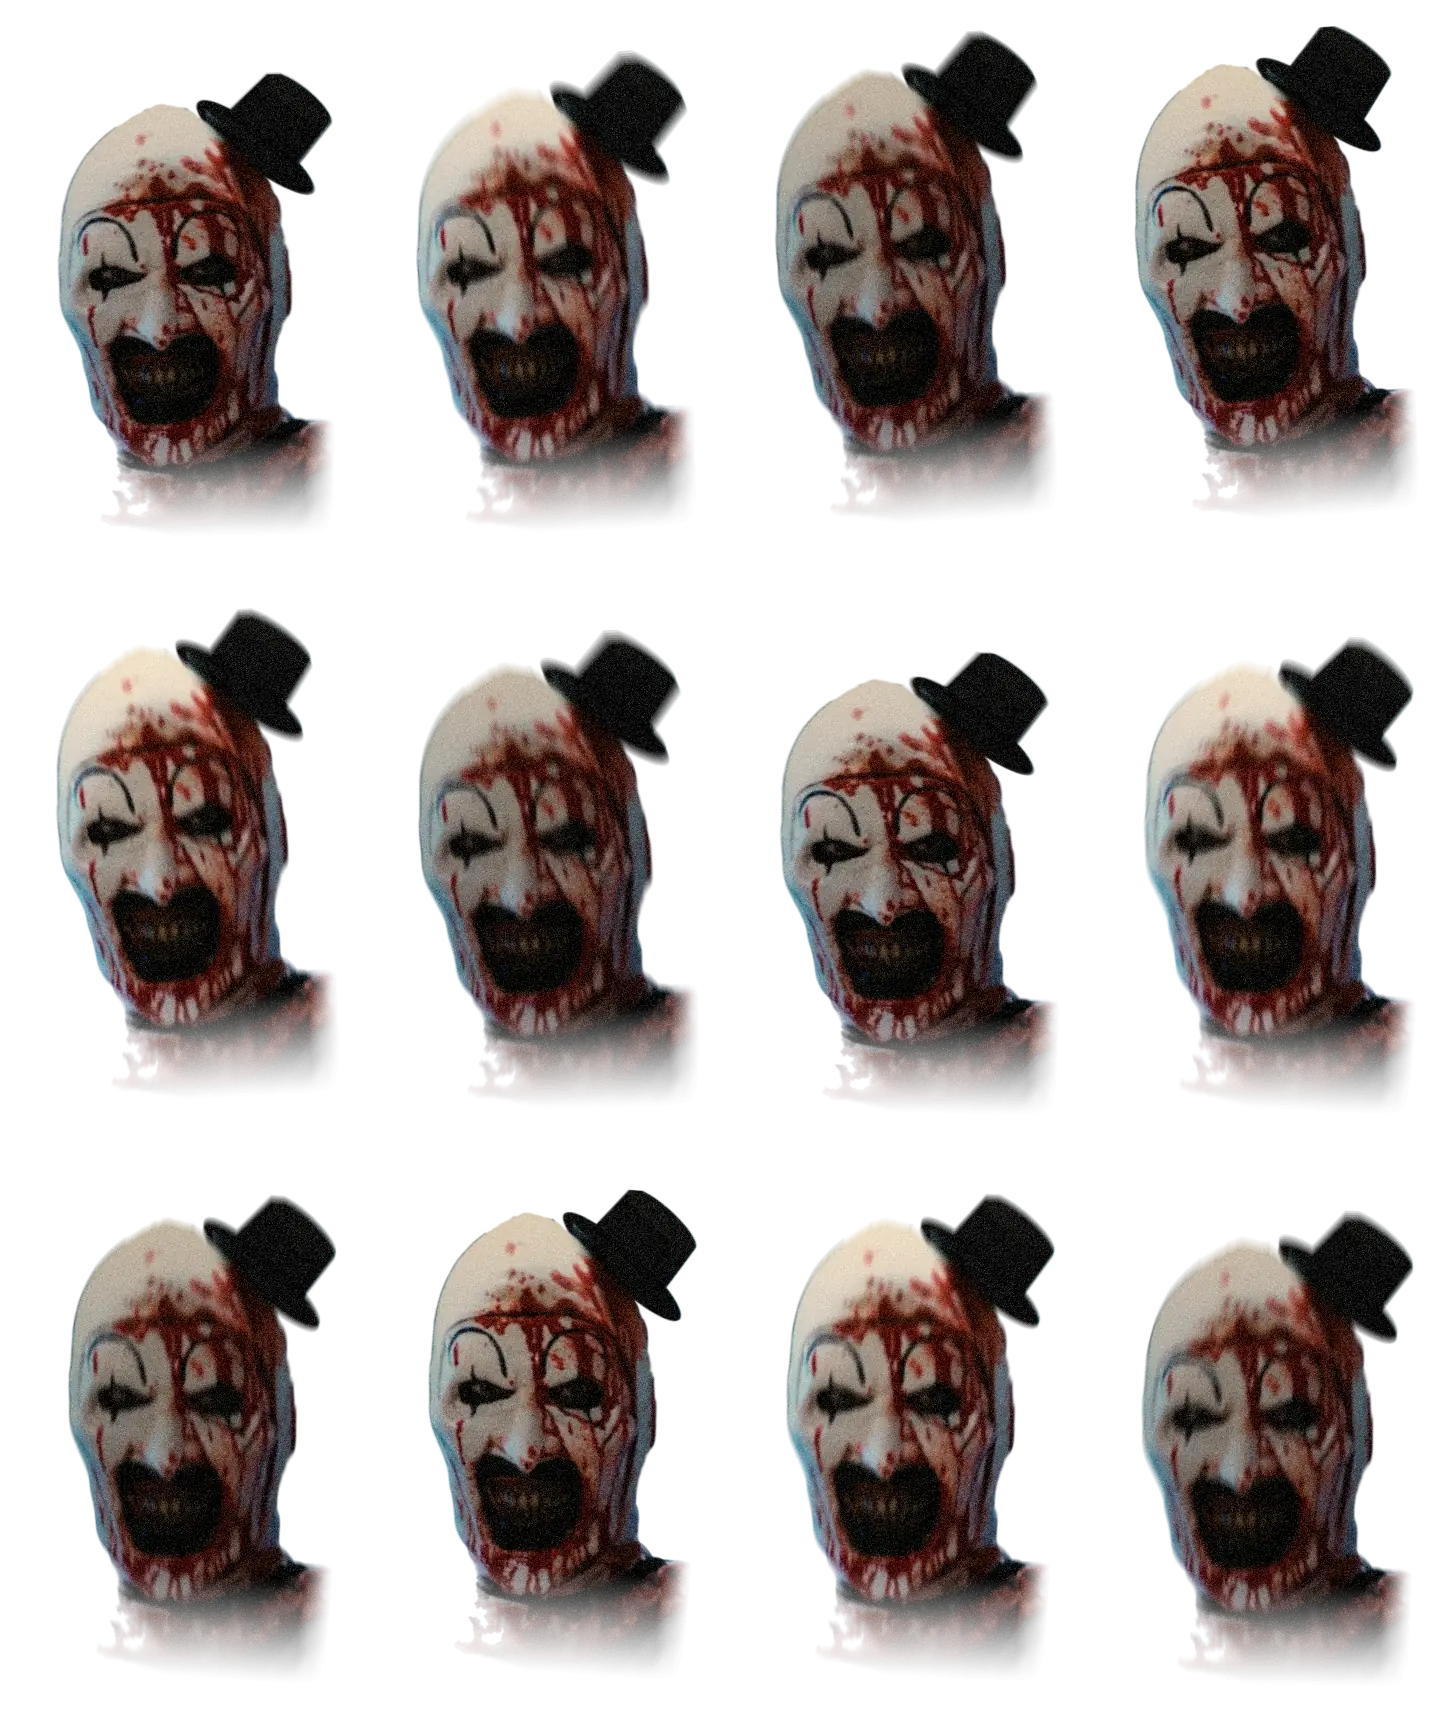
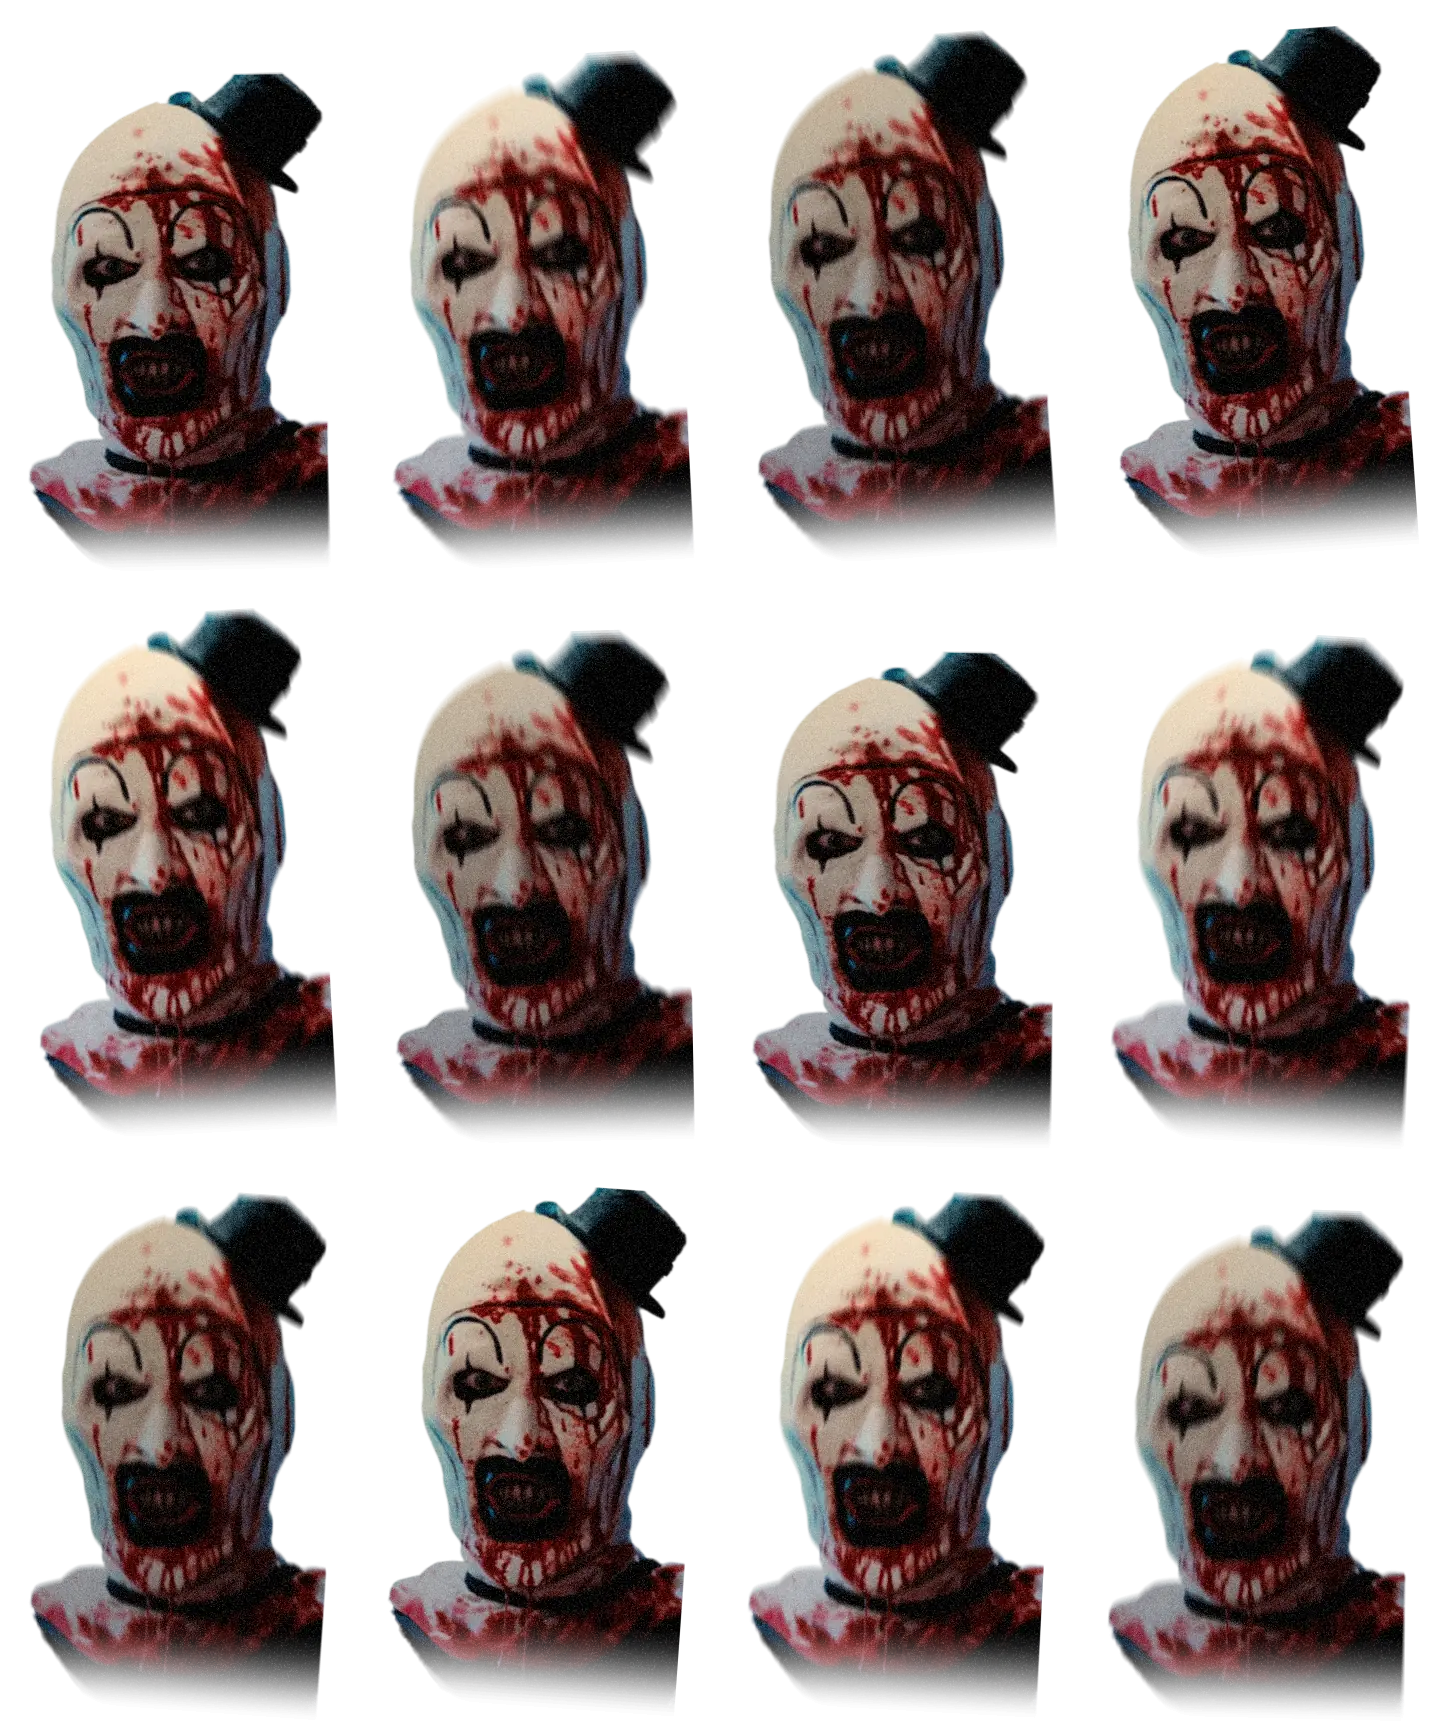
Art face redo: new art.png matted from supplied clip-C frame (real hat, real eyes, defringed, graded), run sheet rebuilt; remove painted-hat pipeline

diff --git a/scripts/make_art_face.py b/scripts/make_art_face.py
@@ -1,0 +1,51 @@
+#!/usr/bin/env python3
+"""Builds assets/art/art.png (the transparent Art overlay used by every in-room scare) from the user-supplied clip footage - no painted or synthesized parts.
+Source: one frame of /workspace/terrifier-game-supplied/clip-C.mp4 (calm eyes, real hat in frame).
+  1. matte = union of two open-source segmenters (rembg isnet-general-use for the hood/face + u2net for the dark hat, which isnet drops against the dark teal wall);
+  2. the matte is cleaned (largest blob, holes filled, 1px tighten, tiny feather);
+  3. edge colours are re-estimated (pymatting estimate_foreground_ml) so no teal wall bleeds into the outline (defringe), then resized PREMULTIPLIED (no halos);
+  4. a light grade matches the room: warm key on the lit side, cold rim kept on the other, slight desaturation + grain-friendly contrast;
+  5. the lower torso fades to transparent so no hard crop edge shows.
+  python3 scripts/make_art_face.py [frame.png]   (extract with: ffmpeg -ss 0.5 -i clip-C.mp4 -frames:v 1 frame.png)
+Needs: /workspace/venv-rembg (rembg, onnxruntime, pymatting, scipy, pillow)."""
+import sys, numpy as np
+from PIL import Image
+from scipy import ndimage as ndi
+from rembg import remove, new_session
+from pymatting import estimate_foreground_ml
+src = sys.argv[1] if len(sys.argv) > 1 else '/tmp/hr/C-02.png'
+out = sys.argv[2] if len(sys.argv) > 2 else 'assets/art/art.png'
+im = Image.open(src).convert('RGB'); W, H = im.size
+def seg(model, **kw):
+    return np.asarray(remove(im, session=new_session(model), alpha_matting=True, alpha_matting_foreground_threshold=235, alpha_matting_background_threshold=20, alpha_matting_erode_size=8, **kw))[..., 3].astype(np.float32) / 255
+a = seg('isnet-general-use')
+# the dark felt hat vanishes against the dark teal wall in a full-frame pass: re-segment just the top-right crop with u2net (hat stays) and merge
+hx0, hy1 = int(W * 0.27), int(H * 0.27)
+crop = im.crop((hx0, 0, W, hy1))
+ha = np.asarray(remove(crop, session=new_session('u2net'), alpha_matting=True, alpha_matting_foreground_threshold=200, alpha_matting_background_threshold=30, alpha_matting_erode_size=6))[..., 3].astype(np.float32) / 255
+a[0:hy1, hx0:W] = np.maximum(a[0:hy1, hx0:W], ha)
+# clean
+keep = a > 0.5
+lab, n = ndi.label(keep); sizes = ndi.sum(keep, lab, range(1, n + 1)); keep = lab == (1 + int(np.argmax(sizes)))
+keep = ndi.binary_fill_holes(ndi.binary_closing(keep, np.ones((3, 3)), iterations=4))
+a = np.where(ndi.binary_dilation(keep, iterations=5), a, 0)
+a = np.clip((ndi.grey_erosion(a, size=(3, 3)) - 0.15) / 0.7, 0, 1); a = ndi.gaussian_filter(a, 0.7)
+# defringe
+fg = estimate_foreground_ml(np.asarray(im, np.float64) / 255, a.astype(np.float64)).astype(np.float32)
+# grade: warm key from the left, cold rim stays on the right; slightly lower saturation, soft S-curve
+yy, xx = np.mgrid[0:H, 0:W]; k = np.clip(1 - xx / W, 0, 1)[..., None]
+warm = np.array([1.06, 1.0, 0.90], np.float32); cool = np.array([0.96, 1.0, 1.06], np.float32)
+fg = fg * (k * warm + (1 - k) * cool)
+g = fg.mean(-1, keepdims=True); fg = np.clip(g + (fg - g) * 0.92, 0, 1)
+fg = np.clip(fg, 0, 1); fg = fg * fg * (3 - 2 * fg) * 0.35 + fg * 0.65
+# crop to subject, fade the bottom 18% to nothing
+box = Image.fromarray((a * 255).astype(np.uint8)).point(lambda v: 255 if v > 8 else 0).getbbox(); x0, y0, x1, y1 = box
+fg = fg[y0:y1, x0:x1]; a = a[y0:y1, x0:x1]; h = a.shape[0]
+fade = np.clip((1 - (np.arange(h) / h - 0.82) / 0.18), 0, 1)[:, None]; a = a * (fade * fade * (3 - 2 * fade))
+tw = 640; th = round(h * tw / a.shape[1])
+pm = Image.fromarray((np.dstack([fg * a[..., None], a]) * 255 + .5).astype(np.uint8), 'RGBA').resize((tw, th), Image.LANCZOS)
+r = np.asarray(pm, np.float32) / 255; ra = np.clip(r[..., 3:4], 0, 1)
+res = np.dstack([np.where(ra > 1 / 255, np.clip(r[..., :3] / np.maximum(ra, 1e-4), 0, 1), 0), ra])
+Image.fromarray((res * 255 + .5).astype(np.uint8), 'RGBA').save(out + '.tmp.png')
+import subprocess; subprocess.check_call(['pngquant', '256', '--quality', '55-95', '--speed', '1', '--floyd=0.6', '--strip', '-f', '-o', out, out + '.tmp.png']); import os; os.remove(out + '.tmp.png')
+print('wrote', out, tw, th)

diff --git a/README.md b/README.md
@@ -79,7 +79,7 @@ Missing keys fall back to `js/config.js`. Unknown keys are ignored. `version` is
 
 ### Assets
 - `assets/rooms/*.jpg`: procedural equirect room plates (`scripts/make_rooms.py`, numpy/Pillow) - placeholders until Phase C Blender plates.
-- `assets/art/art.png`: cut-out of Art made by `scripts/make_art.py` **from the user-supplied reference image (not original art)**. The title art derives from the same reference.
+- `assets/art/art.png`: cut-out of Art made by `scripts/make_art_face.py` **from a frame of the user-supplied `clip-C.mp4` (Louie's footage, not original art)**: real hat and eyes, two-model matte (isnet + u2net for the hat), pymatting defringe, premultiplied resize, light warm-key/cold-rim grade. `art-run.webp` (`scripts/make_art_run.py`) is rebuilt from it. The old painted-hat cut-out (`make_art.py`, `art-title.png`, `art-alpha.png`) is gone.
 - Audio: `assets/audio/*.wav` are original, generated by `python3 scripts/make_audio.py` (numpy/scipy, no samples). They are listed in `manifest.audio` (`hum`, `stinger`, `breathing`, `creak`, `static`); a missing or undecodable file falls back to the oscillator synth in `assets/ui/audio-engine.js`. No Terrifier audio.
 - Room plates: `assets/rooms/{attic,kitchen,mortuary,hallway,basement,frontdoor}.jpg` are 3072x1536 equirectangular renders from `scripts/blender/room_*.py` (Blender 4.3, Cycles CPU, one hard tungsten bulb). Rebuild: `BLENDER=/path/to/blender scripts/blender/render_all.sh [samples=48] [w=3072] [h=1536] [jpgQuality=82]` (set `OUT=dir` to render elsewhere). Needs a Blender build with OpenImageDenoise (the official portable build has it). `scripts/pano_view.py plate.jpg out.png yawDeg pitchDeg vfov w h` previews a perspective view of a plate.
 
